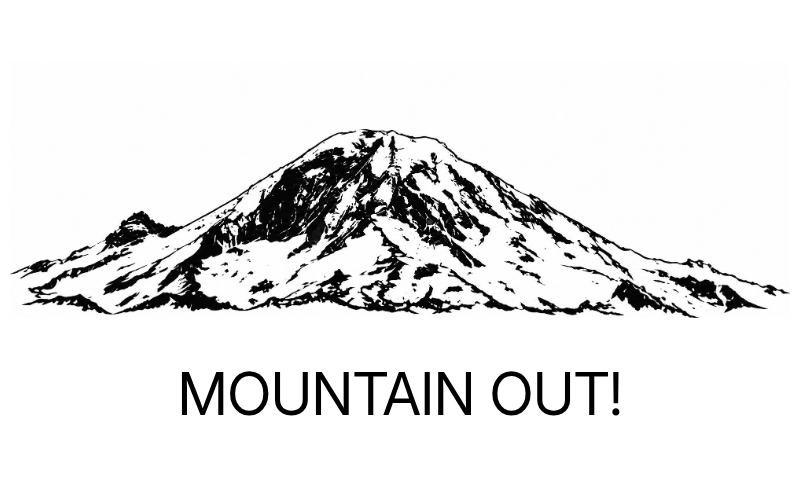
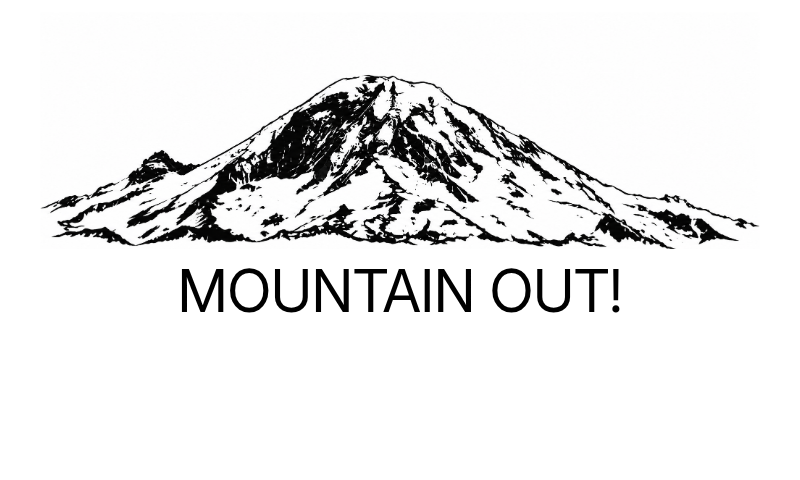
Keep verdict close below mountain and cloud artwork

Changed region(s): [[0.0, 0.1562, 1.0, 0.6562], [0.2188, 0.75, 0.7812, 0.875]]

diff --git a/tools/check_layouts.py b/tools/check_layouts.py
@@ -28,9 +28,9 @@ def main():
                 for layout in SIZES:
                     for feedback in (False, True):
                         # All artwork/states on the original screen; longest verdict and
-                        # unknown on every other device/orientation/view/QR combination.
+                        # unknown and fully clouded on every other device/orientation/view/QR combination.
                         images = IMAGES if device is None and not portrait else IMAGES[:1]
-                        states = STATES if device is None and not portrait else ['mountain_out', 'unknown']
+                        states = STATES if device is None and not portrait else ['mountain_out', 'unknown', 'not_out']
                         for image_path in images:
                             for state in states:
                                 case = (device, portrait, layout, feedback, image_path, state)
@@ -54,8 +54,10 @@ def main():
                                 mountain = page.locator('[data-mountain-region]').bounding_box()
                                 verdict = page.locator('[data-verdict-region]').bounding_box()
                                 text = page.locator('.value').bounding_box()
-                                assert abs(mountain['height'] / content['height'] - .67) < .005, case
-                                assert abs(verdict['y'] - mountain['y'] - mountain['height']) < 1, case
+                                assert abs(mountain['height'] / content['height'] - .52) < .005, case
+                                gap = verdict['y'] - mountain['y'] - mountain['height']
+                                assert 0 < gap <= content['height'] * .05, (case, gap)
+                                assert abs(verdict['height'] - text['height']) < 1, case
                                 assert abs(text['x'] + text['width']/2 - content['x'] - content['width']/2) < 1, case
                                 assert abs(text['y'] + text['height']/2 - verdict['y'] - verdict['height']/2) < 1, case
                                 assert page.locator('[data-mountain-region] > svg').get_attribute('preserveAspectRatio') == 'xMidYMax meet', case
@@ -79,9 +81,9 @@ def main():
                                     assert page.locator('[data-feedback-qr] .label').inner_text()=='Submit report', case
                                     scans += 1
                                 count += 1
-        for feedback, filename in [(False,'clear-fixture.png'),(True,'feedback-qr-preview.png')]:
+        for feedback, filename in [(False,'clear-fixture.png'),(True,'feedback-qr-preview.png'),(True,'not-out-qr-preview.png')]:
             page.set_viewport_size({'width':800,'height':480})
-            page.set_content(render(feedback_url=URL if feedback else None, feedback_qr_path='/q/0123456789abcdef01234567' if feedback else None))
+            page.set_content(render(state='not_out' if filename.startswith('not-out') else 'mountain_out', feedback_url=URL if feedback else None, feedback_qr_path='/q/0123456789abcdef01234567' if feedback else None))
             settle(page)
             page.locator('.screen').screenshot(path=str(ROOT/'docs'/filename))
         browser.close()

diff --git a/README.md b/README.md
@@ -259,9 +259,10 @@ pixel ratios, portrait/landscape orientation and mashup dimensions.
 
 The optional QR appears **only on Full**, anchored with native `absolute bottom--0
 right--0` utilities inside the framework content area. A native small label below
-it reads **Submit report**. The mountain occupies the upper 67% of the content area,
-with its SVG anchored to the bottom of that region. The verdict is centered
-horizontally and vertically in the remaining 33%. Equal native padding on both
+it reads **Submit report**. The illustration occupies the upper 52% of the content area,
+with its SVG anchored to the bottom of that region. The centered verdict follows
+immediately with a small native gap, rather than sitting in a separate bottom
+third. The fully clouded state also trims the blank tail of the cloud artwork. Equal native padding on both
 sides of the verdict accommodates the independently anchored QR without moving
 the text off center. Half Horizontal, Half Vertical and Quadrant never render the QR or caption.
 TRMNL's native `qr_code` Liquid filter draws it inline, avoiding an extra SVG image
